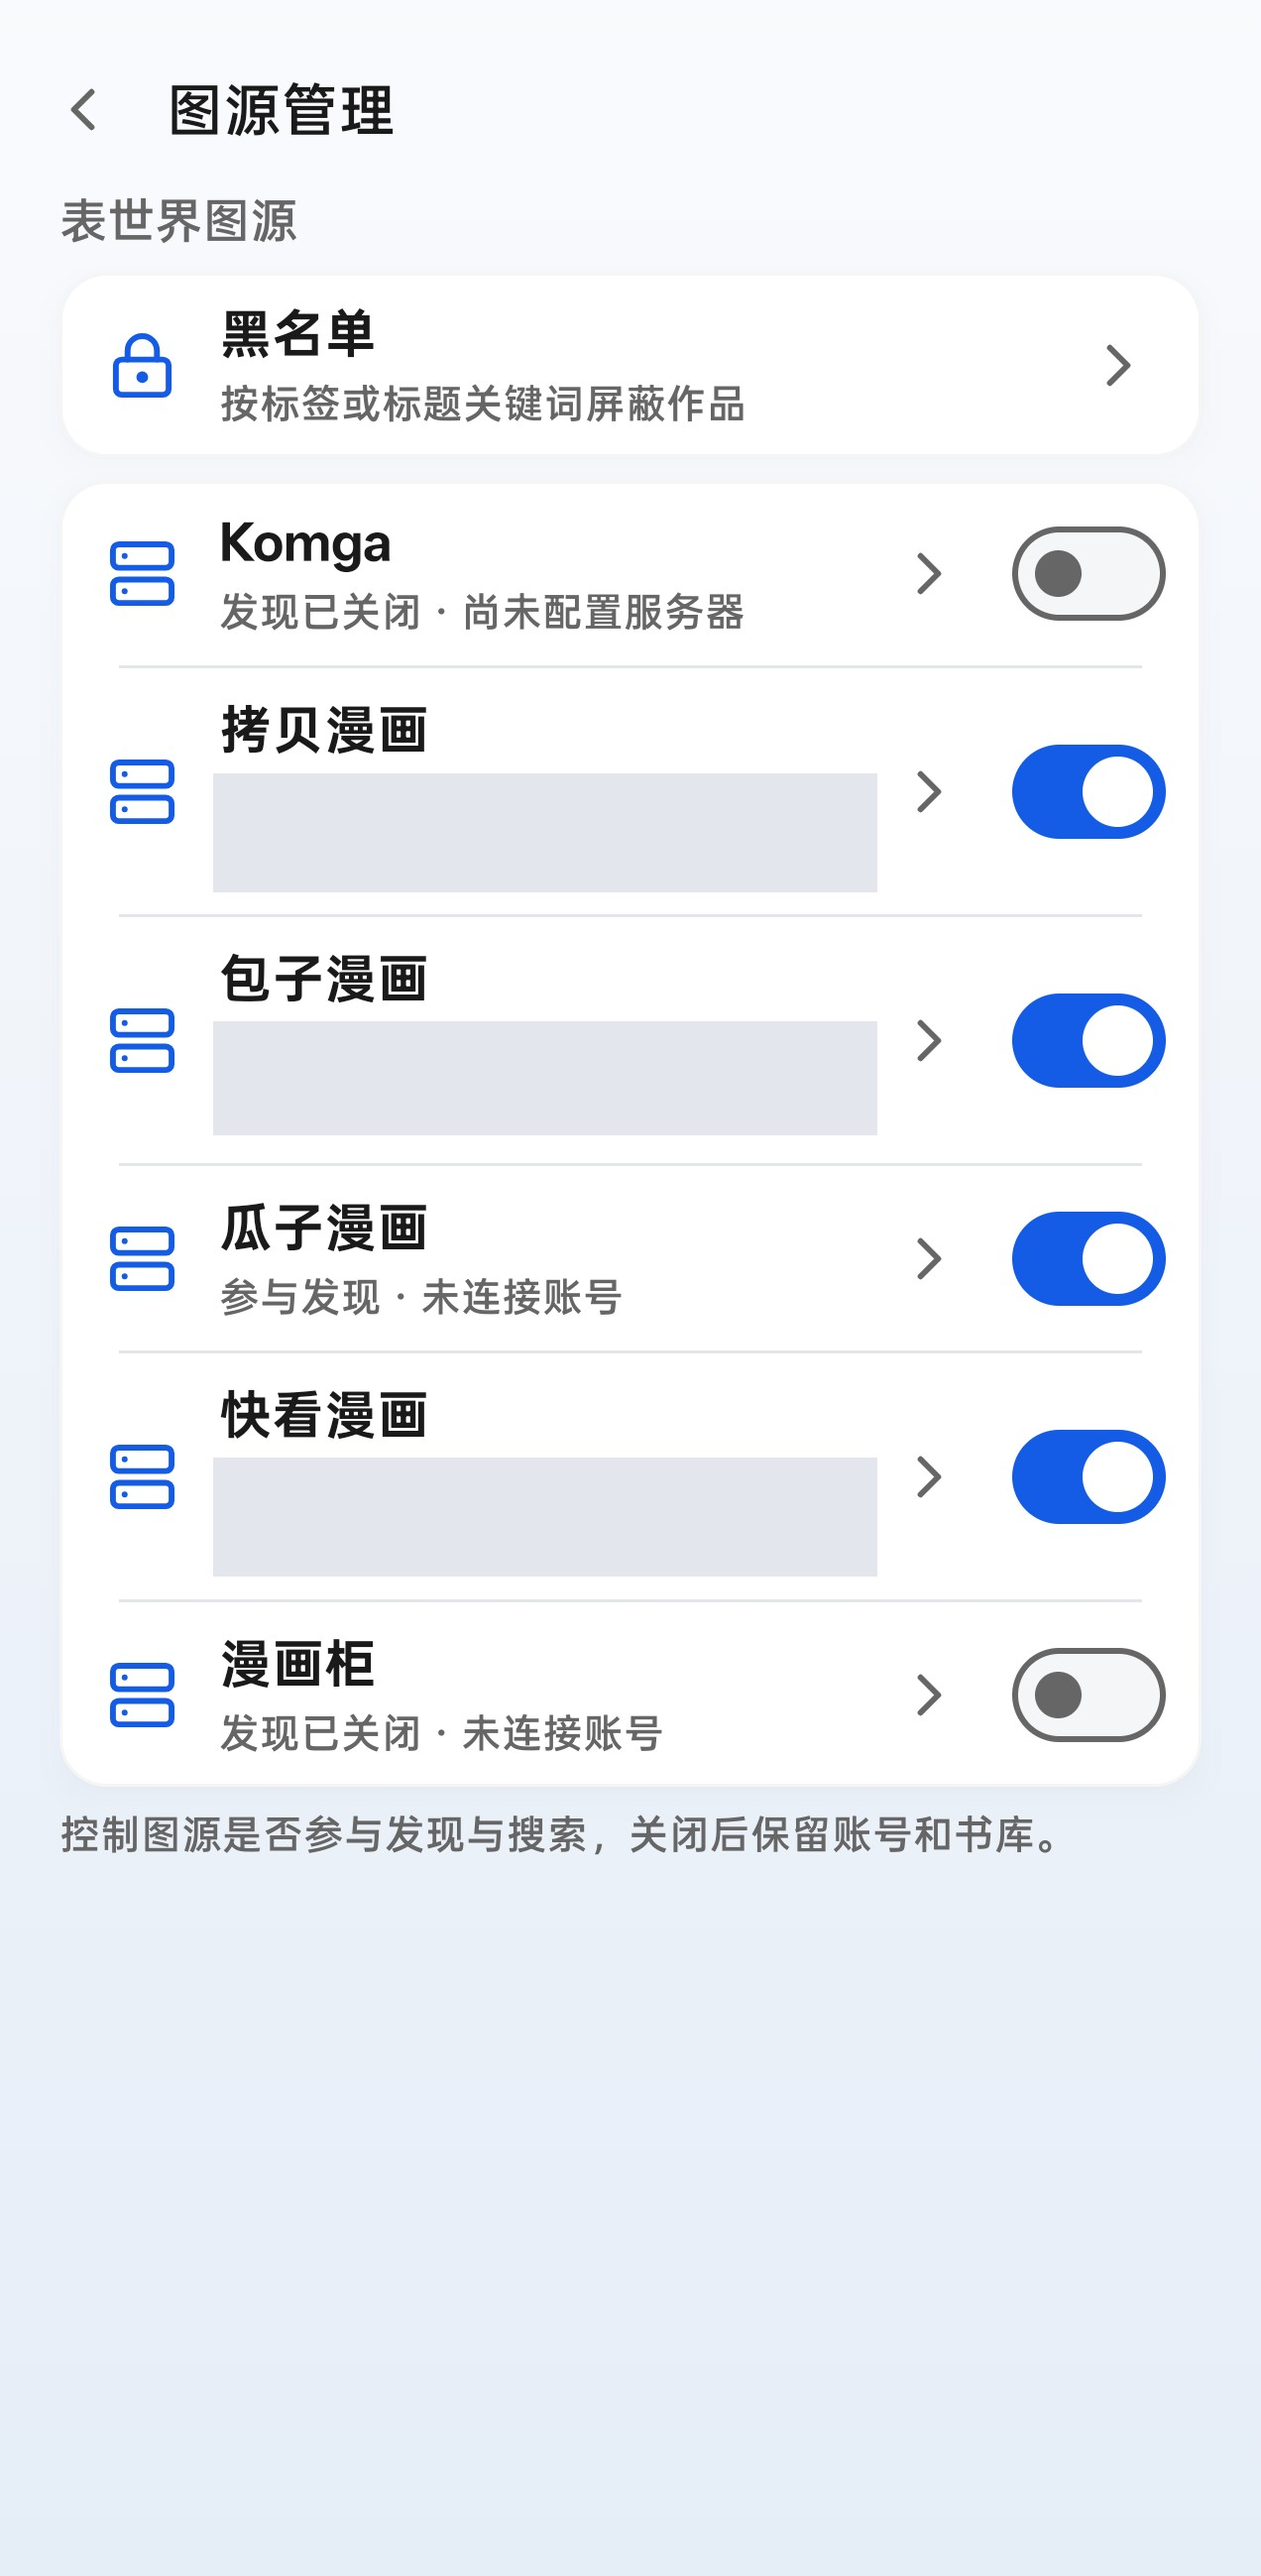
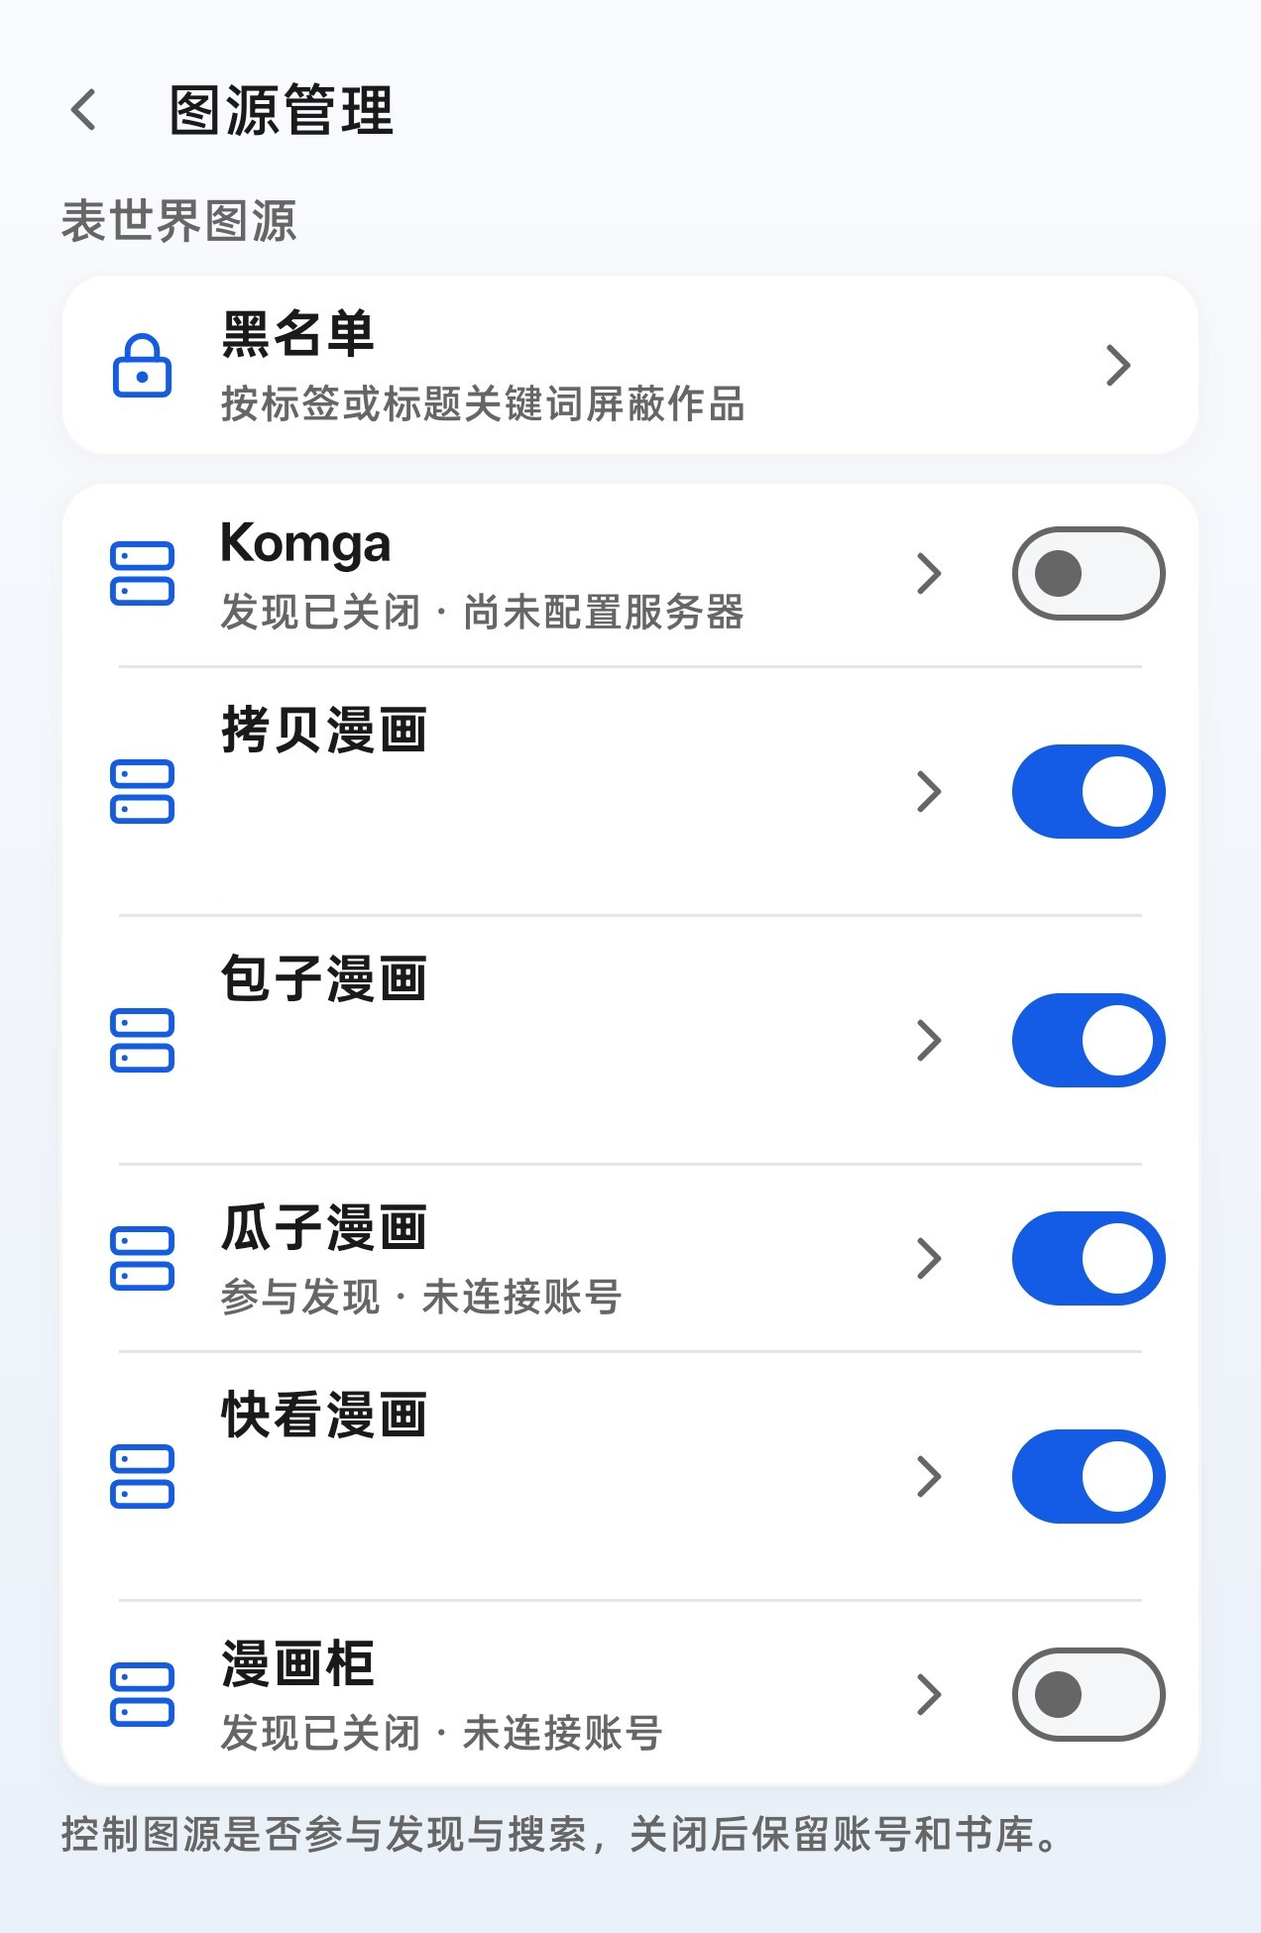
Fix source screenshot presentation

diff --git a/readme.md b/readme.md
@@ -82,8 +82,8 @@
 各来源的功能、登录方式和导入范围不同。项目不提供漫画资源、账号或服务镜像。[查看详细图源说明](docs/release/supported-sources.md)。
 
 <p align="center">
-  <img src="assets/readme/sources-outer.jpg" width="300" alt="表世界图源管理" />
-  <img src="assets/readme/sources-inner.jpg" width="300" alt="里世界图源管理" />
+  <img src="assets/readme/sources-outer.jpg" width="300" align="top" alt="表世界图源管理" />
+  <img src="assets/readme/sources-inner.jpg" width="300" align="top" alt="里世界图源管理" />
 </p>
 
 > [!NOTE]
